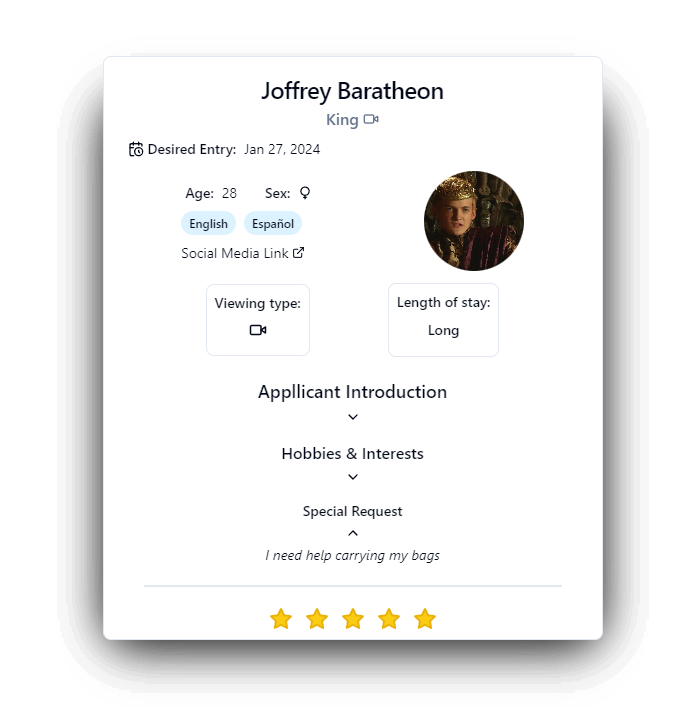
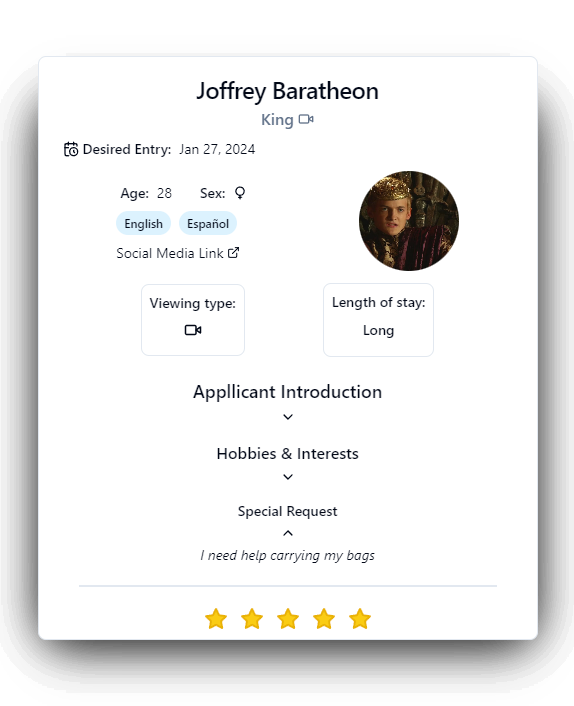
docs: updating readme and adding demo images

diff --git a/README.md b/README.md
@@ -1,15 +1,14 @@
-<!-- Introduction Text -->
 <div align="center">
-    <h1>Flatmate Finder</h1>
-    <h3> 
-      <a href='https://flatmate-finder-devongifford.vercel.app/', target='_blank'>
-        <h5>live demo</h5>
-      <a/>
-    </h3>
-        <h6>
-            built with <a href="https://vitejs.dev/" >Vite</a> &
-            hosted by <a href="https://vercel.com/">Vercel</a> 
-        </h6>
+    <h1>
+        Flatmate Finder 
+    </h1>
+    <a href='https://flatmate-finder-devongifford.vercel.app/', target='_blank'>
+        live demo ↗
+    <a/>
+    <h6>
+        built with <a href="https://vitejs.dev/" >Vite</a> &
+        hosted by <a href="https://vercel.com/">Vercel</a> 
+    </h6>
 </div>
 
 ---
@@ -26,18 +25,7 @@ Tech Used in this Project
 
 ---
 
-<!-- Logo -->
-<div align=center>
-    <img src="/src/assets/github/FlatmateFinder_demo.png" alt="Demo" title="DemoImage" width="800" height="500">     
-</div>
-
-<div align=center>
-    <img src="/src/assets/github/FlatmateFinder_demo2.png" alt="Demo-tinder" title="DemoImageTinder" width="400" height="600">     
-    <img src="/src/assets/github/FlatmateFinder_demo3.png" alt="Demo-form" title="DemoImageForm" width="400" height="600">     
-</div>
-
 <br>
-
 
 
 ## Brief Introduction:
@@ -48,10 +36,28 @@ Flatmate Finder streamlines the flatmate search process with its user-friendly f
 
 Built with Vite, TypeScript, Firebase, and Tailwind CSS, Flatmate Finder delivers a seamless user experience for both potential flatmates and current tenants.
 
+<!-- SCREENSHOTS -->
+<details>
+<summary> Click here for screenshots: </summary>
+
+<div align=center>
+    <img src="/src/assets/github/FlatmateFinder_demo.png" alt="Demo" title="DemoImage" width="650" height="300">     
+</div>
+
+<div align=center>
+    <img src="/src/assets/github/FlatmateFinder_demo2.png" alt="Demo-tinder" title="DemoImageTinder" width="280" height="450">     
+    <img src="/src/assets/github/FlatmateFinder_demo3.png" alt="Demo-form" title="DemoImageForm" width="280" height="450">     
+</div>
+
+<!-- CLOSING DIV -->
+</details>
+<br/>
+
 <br/>
 
 
 ## How It Works
+<!-- -------------------------------------------------------------------------- -->
 
 ### For Potential Flatmates
 
@@ -103,10 +109,6 @@ Your contribution helps us maintain a stable and reliable application. Thank you
 </details>
 <br/>
 
-
-
-
-<br/>
 
 ## Running Locally
 <!-- -------------------------------------------------------------------------- -->
